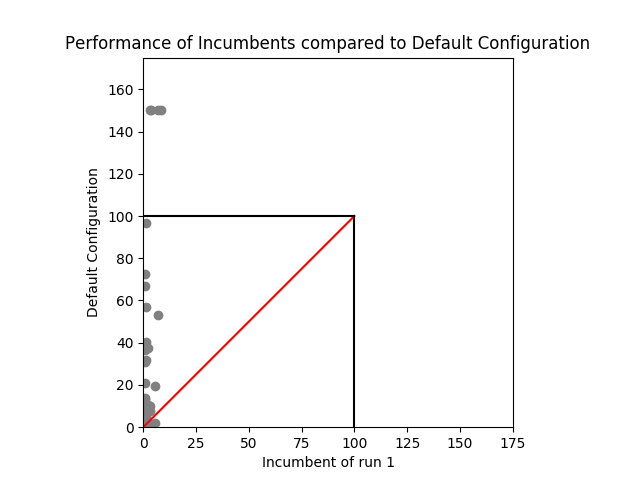
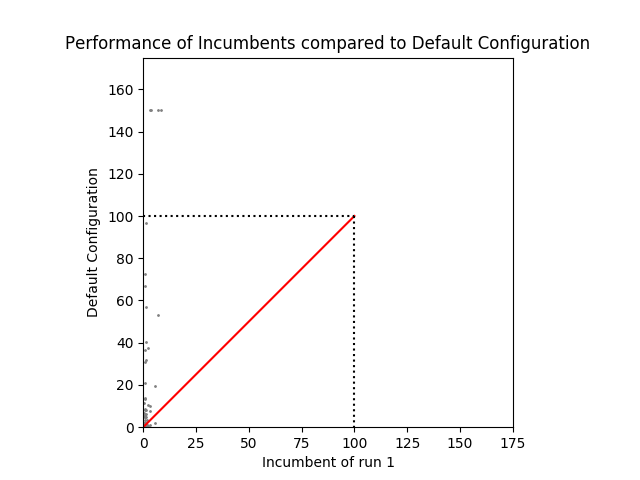
Added plot

diff --git a/Exercise2/lpg_depots/validate/plot_validation_1.py b/Exercise2/lpg_depots/validate/plot_validation_1.py
@@ -29,10 +29,10 @@ def main():
             cost_incumbent.append(z_)
     fig1 = plt.figure()
     ax1 = fig1.add_subplot(111)
-    ax1.plot(cost_incumbent,cost_default,'ro', color="gray")
-    ax1.plot([0,100],[0,100],'k',color="red")
-    ax1.plot([0,100],[100,100],'k',color="black")
-    ax1.plot([100,100],[100,0],'k',color="black")
+    ax1.plot(cost_incumbent,cost_default,'o', color="gray",markersize=1)
+    ax1.plot([0,100],[0,100],'r-')
+    ax1.plot([0,100],[100,100],'k:')
+    ax1.plot([100,100],[100,0],'k:')
     plt.ylabel("Default Configuration")
     plt.xlabel("Incumbent of run 1")
     ax1.set_xlim([0,175])
